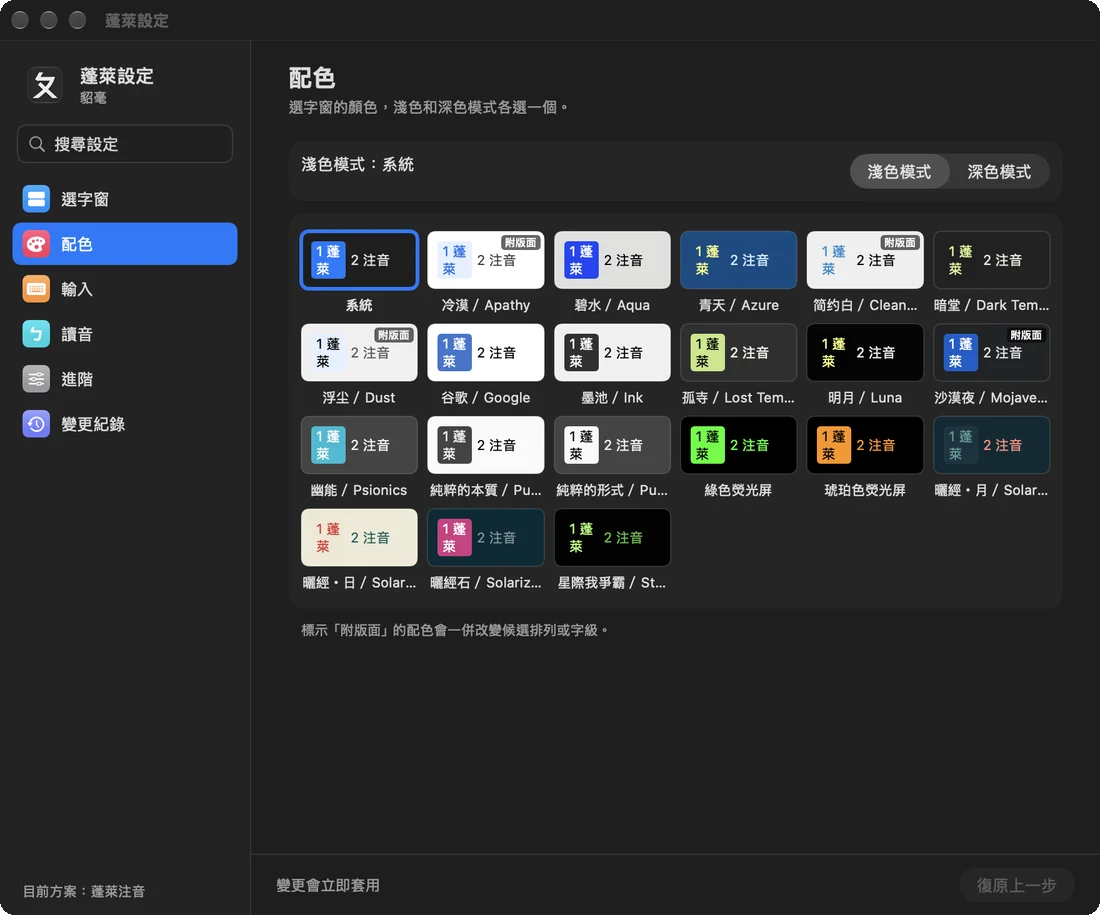
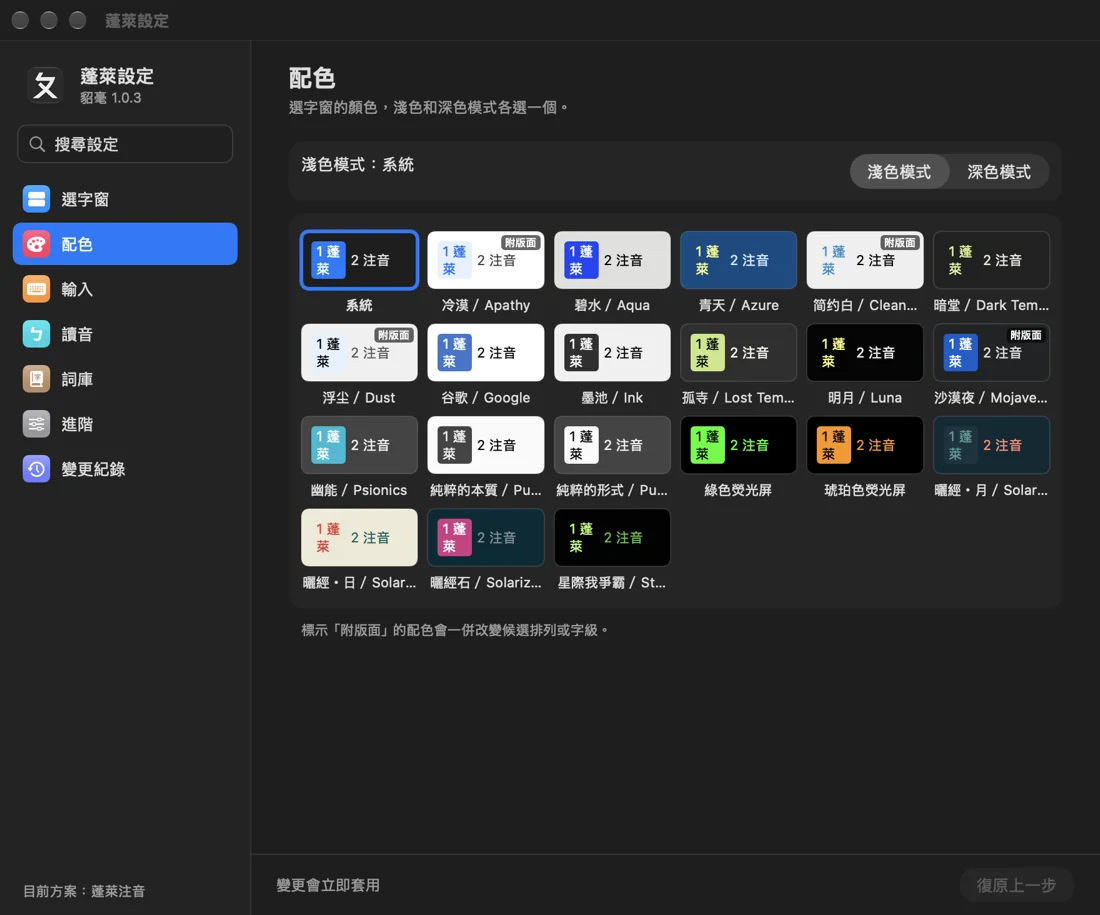
說明書：英文頁「單字表以外的字母串」的例子換成 tailscale（公開預設 11/1 起不收任意字母串，elvie 已經出不來）；設定截圖八張用 1.0.3 重截（側欄多了詞庫、輸入頁換成「打錯也對得到」），輸入頁截圖的說明跟著改

diff --git a/site/public/wiki/english/index.html b/site/public/wiki/english/index.html
@@ -49,7 +49,7 @@
 <p>中文組得通的時候照舊出中文。只打第一個注音的中文（ㄐ ㄊ → 今天）也不會被當成英文：</p>
 <figure class="ex"><div class="ex-row"><div class="ex-keys"><kbd>ㄐ</kbd><kbd>ㄊ</kbd></div><div class="ex-out"><div class="ime-panel"><div class="ime-preedit">ㄐ ㄊ</div><ol class="ime-cands"><li class="hl"><span class="n">1</span>今天</li><li><span class="n">2</span>具體</li><li><span class="n">3</span>鏡頭</li><li><span class="n">4</span>家庭</li><li><span class="n">5</span>給他</li></ol></div></div></div><figcaption>ㄐ ㄊ 照樣是「今天」。</figcaption></figure>
 <p>不在英文單字表裡的字母串（名字、縮寫），中文明顯組不起來時，也會照按的字母當一個候選：</p>
-<figure class="ex"><div class="ex-row"><div class="ex-keys"><kbd>e</kbd><kbd>l</kbd><kbd>v</kbd><kbd>i</kbd><kbd>e</kbd></div><div class="ex-out"><div class="ime-panel"><div class="ime-preedit">elvie</div><ol class="ime-cands"><li class="hl"><span class="n">1</span>elvie</li><li><span class="n">2</span>高校噢個</li><li><span class="n">3</span>高下噢個</li><li><span class="n">4</span>個凹陷噢個</li><li><span class="n">5</span>個奧下噢個</li></ol></div></div></div><figcaption>elvie 不是常見單字，中文又組不通，就照打的字母排第一。</figcaption></figure>
+<figure class="ex"><div class="ex-row"><div class="ex-keys"><kbd>t</kbd><kbd>a</kbd><kbd>i</kbd><kbd>l</kbd><kbd>s</kbd><kbd>c</kbd><kbd>a</kbd><kbd>l</kbd><kbd>e</kbd></div><div class="ex-out"><div class="ime-panel"><div class="ime-preedit">tail scale</div><ol class="ime-cands"><li class="hl"><span class="n">1</span>tailscale</li><li><span class="n">2</span>沈默懊惱和貓狗</li><li><span class="n">3</span>tails和貓狗</li><li><span class="n">4</span>tails</li><li><span class="n">5</span>沈默懊惱黑貓個</li></ol></div></div></div><figcaption>tailscale 不在英文單字表裡，中文又組不通，就照打的字母排第一。</figcaption></figure>
 
 <h2>數字</h2>
 <p>整段都是數字鍵時，第一個候選就是那串數字，按 <kbd>Return</kbd> 送出：</p>

diff --git a/site/wiki/english.html b/site/wiki/english.html
@@ -9,7 +9,7 @@
 <p>中文組得通的時候照舊出中文。只打第一個注音的中文（ㄐ ㄊ → 今天）也不會被當成英文：</p>
 <div class="ex" data-keys="rw" data-files="penglai_en.txt penglai_judge.tbl">ㄐ ㄊ 照樣是「今天」。</div>
 <p>不在英文單字表裡的字母串（名字、縮寫），中文明顯組不起來時，也會照按的字母當一個候選：</p>
-<div class="ex" data-keys="elvie" data-label="e l v i e" data-files="penglai_en.txt penglai_judge.tbl">elvie 不是常見單字，中文又組不通，就照打的字母排第一。</div>
+<div class="ex" data-keys="tailscale" data-label="t a i l s c a l e" data-files="penglai_en.txt penglai_judge.tbl">tailscale 不在英文單字表裡，中文又組不通，就照打的字母排第一。</div>
 
 <h2>數字</h2>
 <p>整段都是數字鍵時，第一個候選就是那串數字，按 <kbd>Return</kbd> 送出：</p>

diff --git a/site/public/wiki/settings/index.html b/site/public/wiki/settings/index.html
@@ -94,7 +94,7 @@
 </table></div>
 <p>中英混輸、聯想、送出之後按空白補標點、組句與學習旁邊的「細部調整」通到進階裡對應的那一類。</p>
 <figure class="shot">
-<img src="/wiki/img/settings-typing.webp" width="1100" height="915" loading="lazy" alt="蓬萊設定的輸入頁：中英混輸、聯想、容許漏打聲母、送出之後按空白補標點、筆畫查字五個開關，下面是整句候選數、記住整句的長度、撤銷學習的時限，有幾項旁邊有細部調整。">
+<img src="/wiki/img/settings-typing.webp" width="1100" height="915" loading="lazy" alt="蓬萊設定的輸入頁：中英混輸、聯想、打錯也對得到、送出之後按空白補標點、筆畫查字五個開關，下面是整句候選數、記住整句的長度、撤銷學習的時限，有幾項旁邊有細部調整。">
 <figcaption>「輸入」頁。</figcaption>
 </figure>
 

diff --git a/site/wiki/settings.html b/site/wiki/settings.html
@@ -54,7 +54,7 @@
 </table></div>
 <p>中英混輸、聯想、送出之後按空白補標點、組句與學習旁邊的「細部調整」通到進階裡對應的那一類。</p>
 <figure class="shot">
-<img src="/wiki/img/settings-typing.webp" width="1100" height="915" loading="lazy" alt="蓬萊設定的輸入頁：中英混輸、聯想、容許漏打聲母、送出之後按空白補標點、筆畫查字五個開關，下面是整句候選數、記住整句的長度、撤銷學習的時限，有幾項旁邊有細部調整。">
+<img src="/wiki/img/settings-typing.webp" width="1100" height="915" loading="lazy" alt="蓬萊設定的輸入頁：中英混輸、聯想、打錯也對得到、送出之後按空白補標點、筆畫查字五個開關，下面是整句候選數、記住整句的長度、撤銷學習的時限，有幾項旁邊有細部調整。">
 <figcaption>「輸入」頁。</figcaption>
 </figure>
 
